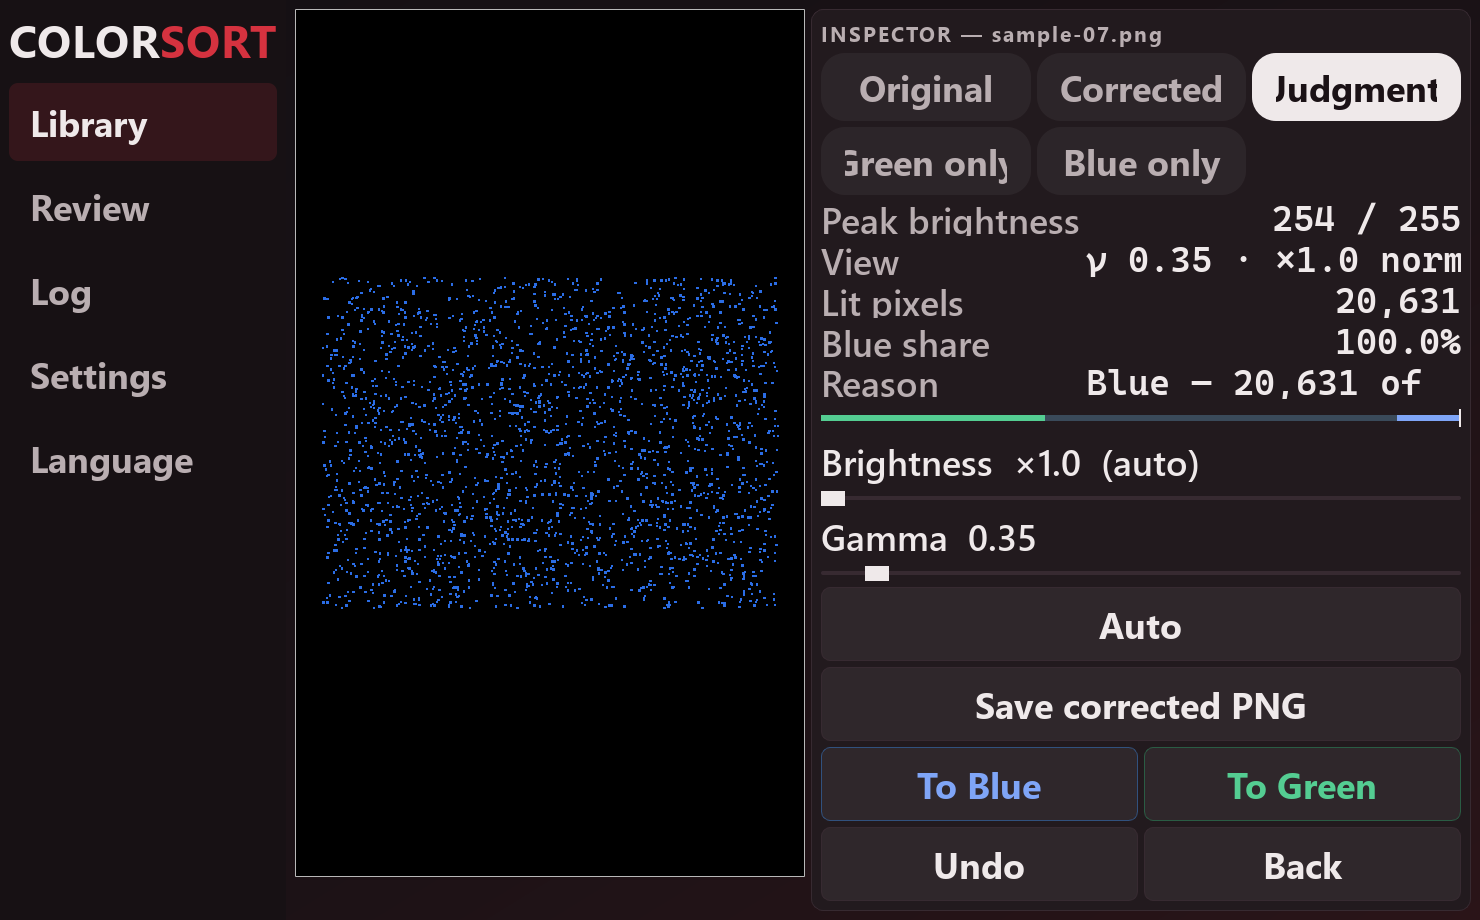
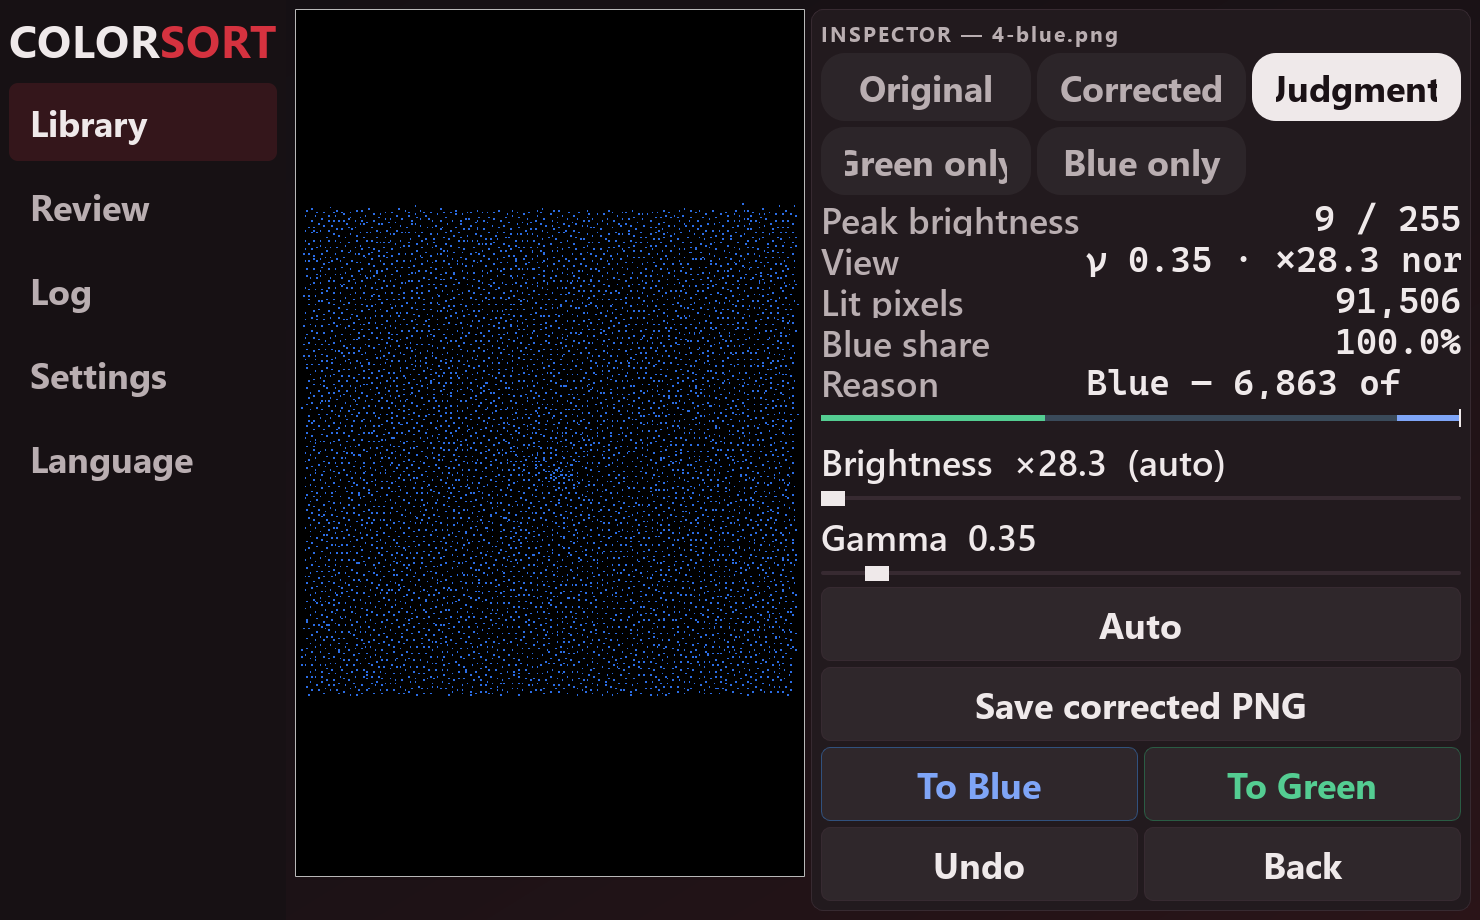
docs: 데모 GIF·검사관 화면을 실사진 말뭉치(영어 UI) 캡처로 교체

diff --git a/packaging/demo_capture.py b/packaging/demo_capture.py
@@ -1,7 +1,8 @@
 """데모 캡처 — Windows py -3.12 + offscreen으로 실제 앱을 영어 UI로 구동해 찍는다.
 
-말뭉치는 실행할 때마다 numpy로 **합성**한다(검은 바탕 + 한 색 점 구름).
-실제 사진 폴더는 절대 읽지 않는다 — 어떤 프레임에도 실데이터가 담기면 안 된다.
+말뭉치는 A/·B/ 실사진을 build/demo/corpus 로 복사해 쓴다. build/는 gitignore라
+원본 파일이 커밋되지는 않으며, 화면에 사진이 보이는 것은 사용자가 허용했다
+(2026-07-23 — 데모 미디어에 한함).
 끝나면 frames/*.png 와 데모 GIF(build/demo/colorsort-demo.gif)가 남는다.
 """
 import os
@@ -16,7 +17,6 @@ if os.name == "nt":
 ROOT = Path(__file__).resolve().parents[1]
 sys.path.insert(0, str(ROOT))
 
-import numpy as np                                    # noqa: E402
 from PIL import Image                                 # noqa: E402
 from PySide6.QtWidgets import QApplication, QFrame    # noqa: E402
 
@@ -27,30 +27,14 @@ DEMO = ROOT / "build" / "demo"
 FRAMES = DEMO / "frames"
 GIF = DEMO / "colorsort-demo.gif"
 
-GREEN, BLUE = 1, 2                                    # RGB 채널 번호
-
-
-def _synth(path: Path, channel, dots: int, seed: int) -> None:
-    """검은 바탕에 한 색의 점 구름을 뿌린 합성 사진. channel=None이면 전부 검정."""
-    rng = np.random.default_rng(seed)
-    img = np.zeros((480, 640, 3), np.uint8)
-    if channel is not None:
-        xs = rng.integers(30, 610, dots)
-        ys = rng.integers(30, 450, dots)
-        for x, y in zip(xs, ys):
-            img[y - 1:y + 2, x - 1:x + 2, channel] = int(rng.integers(110, 255))
-    Image.fromarray(img).save(path)
-
 
 def _build_corpus(dst: Path) -> None:
-    """sample-01..24(홀수 파랑, 짝수 초록) + sample-25(전부 검정 → review)."""
+    """A/·B/ 실사진을 로컬 build/ 아래로 복사한다 (저장소 밖으로 나가지 않는다)."""
     if dst.exists():
         shutil.rmtree(dst)
-    dst.mkdir(parents=True)
-    for i in range(1, 25):
-        _synth(dst / f"sample-{i:02d}.png", BLUE if i % 2 else GREEN,
-               dots=1500 + 130 * i, seed=i)
-    _synth(dst / "sample-25.png", None, 0, seed=99)
+    skip = shutil.ignore_patterns("results")
+    shutil.copytree(ROOT / "A", dst / "A", ignore=skip)
+    shutil.copytree(ROOT / "B", dst / "B", ignore=skip)
 
 
 def _pump(app, n=20):
@@ -105,7 +89,7 @@ def main() -> int:
     w.set_tab("review")
     _grab(app, w, "03-review")
 
-    idx = next(i for i, it in enumerate(w._items) if it.path.name == "sample-07.png")
+    idx = next(i for i, it in enumerate(w._items) if it.path.name == "4-blue.png")
     w._open_detail(w.grid.item(idx))
     _pump(app, 30)
     w.detail.set_view_mode("original")
@@ -118,7 +102,7 @@ def main() -> int:
     ridx = next(i for i, it in enumerate(w._items)
                 if it.effective_sub.startswith("review"))
     w._current = w._items[ridx]
-    w._set_human("BLUE")                           # 합성 말뭉치의 사본만 이동한다
+    w._set_human("BLUE")                           # corpus 사본만 이동한다
     w.set_tab("all")
     _pump(app, 30)
     _grab(app, w, "07-confirmed")